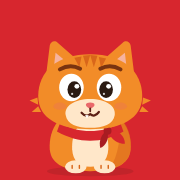
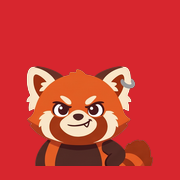
Tama ahora es una panda roja animada
- Seis poses ilustradas (normal, contenta, hablando, escuchando, pensando, ups) con fondo transparente
- Animación: respiración, rebote al hablar, salto al acertar, inclinación al escuchar y gestos aleatorios
- Transición suave entre poses e icono de la app con la panda

Claude-Session: https://claude.ai/code/session_018rENqMkCvc8G4z7XLaYB4Q

diff --git a/index.html b/index.html
@@ -4,7 +4,7 @@
 <meta charset="utf-8">
 <meta name="viewport" content="width=device-width,initial-scale=1,viewport-fit=cover,interactive-widget=resizes-content">
 <title>Hanashi</title>
-<meta name="description" content="Aprende japonés hablando con Tama, tu compañero gato.">
+<meta name="description" content="Aprende japonés hablando con Tama, tu compañera panda roja.">
 <meta name="theme-color" content="#d7262e">
 <link rel="manifest" href="manifest.webmanifest">
 <link rel="icon" href="icon-192.png">
@@ -93,39 +93,44 @@ nav.tabs button[aria-selected="true"] .k{color:var(--ai)}
 .focus .w{font-family:var(--f-jp);font-size:13px;background:var(--warn-soft);color:var(--warn);border-radius:6px;padding:1px 7px}
 .focus .w.new{background:var(--ai-soft);color:var(--ai)}
 
-/* mascot svg */
-.cat{width:100%;height:100%;overflow:visible}
-.cat *{transform-box:view-box}
-.cat .eyes-happy,.cat .mouth-talk,.cat .sweat,.cat .dots,.cat .spark{display:none}
-.cat .blink{transform-origin:100px 76px;animation:blink 5s infinite}
-.cat .tail{transform-origin:142px 176px;animation:sway 3.4s ease-in-out infinite}
-.cat .head{transform-origin:100px 130px;transition:transform .35s cubic-bezier(.3,1.5,.5,1)}
-.cat .ear-l{transform-origin:62px 40px;transition:transform .3s}
-.cat .ear-r{transform-origin:138px 40px;transition:transform .3s}
-.cat .brow-l{transform-origin:72px 52px;transition:transform .3s}
-.cat .brow-r{transform-origin:128px 52px;transition:transform .3s}
-.cat .brows{transition:transform .3s}
-.cat .pupils{transition:transform .3s}
-.cat .band-tails{transform-origin:166px 52px;animation:flutter 1.6s ease-in-out infinite}
-.cat .bodyall{transform-origin:100px 190px;animation:breath 4s ease-in-out infinite}
-@keyframes breath{0%,100%{transform:scale(1,1)}50%{transform:scale(1.012,.988)}}
-@keyframes blink{0%,93%,100%{transform:scaleY(1)}96%{transform:scaleY(.08)}}
-@keyframes sway{0%,100%{transform:rotate(0)}50%{transform:rotate(-9deg)}}
-@keyframes flutter{0%,100%{transform:rotate(0)}50%{transform:rotate(8deg)}}
-@keyframes hop{0%,100%{transform:translateY(0) scale(1,1)}15%{transform:translateY(0) scale(1.06,.94)}45%{transform:translateY(-16px) scale(.97,1.03)}75%{transform:translateY(0) scale(1.04,.96)}}
-@keyframes talk{from{transform:scaleY(.35)}to{transform:scaleY(1)}}
-@keyframes twitch{0%,80%,100%{transform:rotate(0)}88%{transform:rotate(-12deg)}}
-@keyframes twinkle{0%,100%{opacity:0;transform:scale(.4)}50%{opacity:1;transform:scale(1)}}
-@keyframes dot{0%,100%{opacity:.25}50%{opacity:1}}
-@keyframes nod{0%,100%{transform:rotate(0)}30%{transform:rotate(-3deg) translateY(1px)}70%{transform:rotate(3deg)}}
-.cat.talk .mouth-idle{display:none}.cat.talk .mouth-talk{display:block;transform-origin:100px 108px;animation:talk .16s ease-in-out infinite alternate}
-.cat.talk .head{animation:nod 1.4s ease-in-out infinite}
-.cat.talk .brows{transform:translateY(-2px)}
-.cat.happy .blink{display:none}.cat.happy .eyes-happy{display:block}.cat.happy .bodyall{animation:hop .55s ease 2}.cat.happy .spark{display:block;transform-origin:100px 60px;animation:twinkle 1.1s ease-in-out 2}.cat.happy .brows{transform:translateY(-5px)}
-.cat.oops .sweat{display:block}.cat.oops .head{transform:rotate(5deg)}.cat.oops .brow-r{transform:translateY(-6px) rotate(-8deg)}.cat.oops .brow-l{transform:translateY(2px)}
-.cat.sad .ear-l{transform:rotate(-24deg)}.cat.sad .ear-r{transform:rotate(24deg)}.cat.sad .head{transform:translateY(3px)}.cat.sad .pupils{transform:translateY(3px)}.cat.sad .brow-l{transform:rotate(-14deg) translateY(2px)}.cat.sad .brow-r{transform:rotate(14deg) translateY(2px)}
-.cat.listen .head{transform:rotate(-8deg)}.cat.listen .ear-r{animation:twitch 1.4s infinite}.cat.listen .brows{transform:translateY(-3px)}
-.cat.think .dots{display:block}.cat.think .dots circle{animation:dot 1s infinite}.cat.think .dots circle:nth-child(2){animation-delay:.2s}.cat.think .dots circle:nth-child(3){animation-delay:.4s}.cat.think .pupils{transform:translate(4px,-4px)}.cat.think .brow-r{transform:translateY(-5px)}
+/* mascot (red panda) */
+.cat{width:100%;height:100%;position:relative}
+.cat .pop,.cat .rig{position:absolute;inset:0;transform-origin:50% 96%}
+.cat img{position:absolute;inset:0;width:100%;height:100%;object-fit:contain;object-position:50% 100%;opacity:0;transition:opacity .16s ease;user-select:none;-webkit-user-drag:none;pointer-events:none}
+.cat .p-neutral{opacity:1}
+.cat.listen .p-listen{opacity:1}.cat.listen .p-neutral{opacity:0}
+.cat.think .p-think{opacity:1}.cat.think :is(.p-neutral,.p-listen){opacity:0}
+.cat.talk .p-talk{opacity:1}.cat.talk :is(.p-neutral,.p-listen,.p-think){opacity:0}
+.cat:is(.oops,.sad) .p-oops{opacity:1}.cat:is(.oops,.sad) :is(.p-neutral,.p-listen,.p-think,.p-talk){opacity:0}
+.cat.happy .p-happy{opacity:1}.cat.happy :is(.p-neutral,.p-listen,.p-think,.p-talk,.p-oops){opacity:0}
+.cat.peek .p-listen{opacity:1}.cat.peek .p-neutral{opacity:0}
+/* idle: breathing with a soft, uneven rhythm */
+.cat .rig{animation:breathe 3.7s cubic-bezier(.45,0,.55,1) infinite}
+@keyframes breathe{0%,100%{transform:scale(1,1)}38%{transform:scale(1.012,.986) translateY(.5%)}62%{transform:scale(.996,1.008)}}
+/* talking: lively bobbing, irregular so it does not look mechanical */
+.cat.talk .rig{animation:chatter 1.35s ease-in-out infinite}
+@keyframes chatter{0%,100%{transform:translateY(0) rotate(0)}14%{transform:translateY(-2.5%) rotate(-1.2deg)}30%{transform:translateY(0) rotate(0) scale(1.01,.99)}47%{transform:translateY(-1.6%) rotate(1deg)}63%{transform:translateY(-3%) rotate(-.4deg)}80%{transform:translateY(-.6%) rotate(.8deg)}}
+/* happy: squash, jump, land */
+.cat.happy .rig{animation:hop .62s cubic-bezier(.3,.7,.4,1) 2}
+@keyframes hop{0%{transform:scale(1,1)}14%{transform:scale(1.08,.9)}42%{transform:translateY(-13%) scale(.95,1.06) rotate(-2deg)}70%{transform:translateY(0) scale(1.06,.93)}86%{transform:scale(.98,1.02)}100%{transform:scale(1,1)}}
+/* listening: leans in and holds, with a tiny sway */
+.cat.listen .rig{animation:lean 2.6s ease-in-out infinite}
+@keyframes lean{0%,100%{transform:rotate(-2.5deg) translateX(-1%)}50%{transform:rotate(-4deg) translateX(-1.6%) translateY(-.6%)}}
+/* thinking: slow side-to-side ponder */
+.cat.think .rig{animation:ponder 2.2s ease-in-out infinite}
+@keyframes ponder{0%,100%{transform:rotate(1.5deg)}50%{transform:rotate(-1.5deg) translateY(-.8%)}}
+/* oops: small flinch, then a sheepish droop */
+.cat:is(.oops,.sad) .rig{animation:flinch .5s ease-out 1 both}
+@keyframes flinch{0%{transform:translateX(0)}20%{transform:translateX(-2.5%) rotate(-2deg)}45%{transform:translateX(2%) rotate(1.5deg)}70%{transform:translateX(-1%)}100%{transform:translateY(1.5%) scale(1.01,.98)}}
+/* pose change "pop" + random idle fidgets */
+.cat .pop.go{animation:posepop .32s cubic-bezier(.3,1.6,.5,1)}
+@keyframes posepop{0%{transform:scale(.95,1.04)}55%{transform:scale(1.03,.97)}100%{transform:scale(1)}}
+.cat .pop.f-hop{animation:fhop .55s cubic-bezier(.3,.7,.4,1)}
+@keyframes fhop{0%,100%{transform:none}25%{transform:scale(1.05,.94)}55%{transform:translateY(-6%) scale(.98,1.03)}80%{transform:scale(1.03,.97)}}
+.cat .pop.f-tilt{animation:ftilt 1.6s ease-in-out}
+@keyframes ftilt{0%,100%{transform:none}30%,70%{transform:rotate(4deg)}}
+.cat .pop.f-wiggle{animation:fwig .7s ease-in-out}
+@keyframes fwig{0%,100%{transform:none}20%{transform:rotate(-3deg)}40%{transform:rotate(3deg)}60%{transform:rotate(-2deg)}80%{transform:rotate(1deg)}}
 
 /* messages */
 .msgs{display:flex;flex-direction:column;gap:14px}
@@ -461,81 +466,9 @@ function furi(t){
 const plain=t=>String(t??"").replace(/\[[\u3040-\u30ffー・ ]+\]/g,"");
 
 /* ============ Tama, the mascot (original design) ============ */
-const TAMA_COL={fur:"#F28C28",furDark:"#D9661A",cream:"#FFE7C9",ear:"#F6B39E",ink:"#2B1A12",brow:"#7A3410",nose:"#E9686A",mouth:"#5C1F14",tongue:"#F0807A",red:"#D7262E",redDark:"#A81C22"};
-function catSVG(v){
-  v=v||settings.tamaStyle||"tama";const C=TAMA_COL;
-  const eyesOpen = v==="zen"
-    ? `<g class="blink">
-        <ellipse cx="74" cy="76" rx="17" ry="16" fill="#fff"/><ellipse cx="126" cy="76" rx="17" ry="16" fill="#fff"/>
-        <g class="pupils"><ellipse cx="77" cy="80" rx="8.5" ry="9.5" fill="${C.ink}"/><ellipse cx="123" cy="80" rx="8.5" ry="9.5" fill="${C.ink}"/>
-        <circle cx="80" cy="78" r="2.6" fill="#fff"/><circle cx="126" cy="78" r="2.6" fill="#fff"/></g>
-        <path d="M55 74c4-12 34-12 38 0v-14H55z" fill="${C.fur}"/><path d="M107 74c4-12 34-12 38 0v-14h-38z" fill="${C.fur}"/>
-        <path d="M56 73c6-8 30-8 36 0M108 73c6-8 30-8 36 0" fill="none" stroke="${C.furDark}" stroke-width="3" stroke-linecap="round"/>
-      </g>`
-    : `<g class="blink">
-        <ellipse cx="74" cy="74" rx="17" ry="19" fill="#fff"/><ellipse cx="126" cy="74" rx="17" ry="19" fill="#fff"/>
-        <g class="pupils"><ellipse cx="78" cy="77" rx="9.5" ry="11.5" fill="${C.ink}"/><ellipse cx="122" cy="77" rx="9.5" ry="11.5" fill="${C.ink}"/>
-        <circle cx="81.5" cy="72.5" r="3.4" fill="#fff"/><circle cx="125.5" cy="72.5" r="3.4" fill="#fff"/><circle cx="75" cy="83" r="1.5" fill="#fff" opacity=".8"/><circle cx="119" cy="83" r="1.5" fill="#fff" opacity=".8"/></g>
-      </g>`;
-  const brows = v==="ronin"
-    ? `<g class="brows"><path class="brow-l" d="M57 52l28 8" stroke="${C.brow}" stroke-width="6" stroke-linecap="round"/><path class="brow-r" d="M143 52l-28 8" stroke="${C.brow}" stroke-width="6" stroke-linecap="round"/></g>`
-    : v==="zen"
-    ? `<g class="brows"><path class="brow-l" d="M60 54q13-5 26 0" fill="none" stroke="${C.brow}" stroke-width="4.5" stroke-linecap="round"/><path class="brow-r" d="M114 54q13-5 26 0" fill="none" stroke="${C.brow}" stroke-width="4.5" stroke-linecap="round"/></g>`
-    : `<g class="brows"><path class="brow-l" d="M58 49q14-8 28-1" fill="none" stroke="${C.brow}" stroke-width="5.5" stroke-linecap="round"/><path class="brow-r" d="M114 48q14-7 28 1" fill="none" stroke="${C.brow}" stroke-width="5.5" stroke-linecap="round"/></g>`;
-  const mouthIdle = v==="zen"
-    ? `<path class="mouth-idle" d="M91 111q9 6 18 0" fill="none" stroke="${C.mouth}" stroke-width="3" stroke-linecap="round"/>`
-    : v==="ronin"
-    ? `<g class="mouth-idle"><path d="M89 110q6 6 11 1q5 5 11-1" fill="none" stroke="${C.mouth}" stroke-width="3" stroke-linecap="round"/><path d="M105 112l3 5 2-5z" fill="#fff"/></g>`
-    : `<g class="mouth-idle"><path d="M88 109q6 7 12 2q6 5 12-3" fill="none" stroke="${C.mouth}" stroke-width="3" stroke-linecap="round"/><path d="M93 112l2.5 5 2.5-4.5z" fill="#fff"/></g>`;
-  const accessory = v==="ronin"
-    ? `<g class="acc"><path d="M31 47c22-13 116-13 138 0l-2 11c-24-11-110-11-134 0z" fill="${C.red}"/>
-        <circle cx="100" cy="43" r="6.5" fill="#fff"/><circle cx="100" cy="43" r="3.6" fill="${C.red}"/>
-        <g class="band-tails"><path d="M165 50c13 1 23 9 28 19-10-1-19-7-25-13z" fill="${C.red}"/><path d="M165 53c9 7 14 18 13 29-7-7-11-17-13-25z" fill="${C.redDark}"/></g></g>`
-    : v==="zen"
-    ? ``
-    : ``;
-  const neck = v==="zen"
-    ? `<path d="M131 124L97 180" stroke="${C.redDark}" stroke-width="12" stroke-linecap="round"/><path d="M69 124l35 58" stroke="${C.red}" stroke-width="12" stroke-linecap="round"/>
-       <path d="M69 124l35 58" stroke="#fff" stroke-width="2" stroke-dasharray="1 7" stroke-linecap="round" opacity=".6"/>`
-    : v==="ronin"
-    ? `<path d="M62 126c24 12 52 12 76 0l3 9c-26 14-56 14-82 0z" fill="${C.redDark}"/>`
-    : `<path d="M58 124c26 14 58 14 84 0l4 11c-30 17-62 17-92 0z" fill="${C.red}"/>
-       <path d="M128 132c12 2 20 10 20 20-10 0-18-6-22-14z" fill="${C.red}"/><path d="M124 136c2 10-2 18-10 22-2-8 0-16 6-22z" fill="${C.redDark}"/>
-       <circle cx="124" cy="134" r="5.5" fill="${C.redDark}"/>`;
-  return `<svg class="cat v-${v}" viewBox="0 0 200 200" aria-hidden="true">
- <g class="bodyall">
-  <ellipse cx="100" cy="190" rx="60" ry="7" fill="#2b1a12" opacity=".13"/>
-  <g class="tail"><path d="M140 176c36 6 50-20 40-48" fill="none" stroke="${C.fur}" stroke-width="16" stroke-linecap="round"/>
-    <path d="M140 176c36 6 50-20 40-48" fill="none" stroke="${C.furDark}" stroke-width="16" stroke-dasharray="7 11" stroke-dashoffset="-6"/></g>
-  <path d="M100 102c42 0 58 30 56 58-2 22-24 30-56 30s-54-8-56-30c-2-28 14-58 56-58z" fill="${C.fur}"/>
-  <path d="M138 112c14 12 20 30 18 48-2 16-14 24-30 28 14-20 18-50 12-76z" fill="${C.furDark}" opacity=".55"/>
-  <path d="M100 120c18 0 26 20 25 40-1 16-10 24-25 24s-24-8-25-24c-1-20 7-40 25-40z" fill="${C.cream}"/>
-  <ellipse cx="80" cy="184" rx="15" ry="9" fill="${C.cream}"/><ellipse cx="120" cy="184" rx="15" ry="9" fill="${C.cream}"/>
-  <path d="M75 186v-4M85 186v-4M115 186v-4M125 186v-4" stroke="${C.furDark}" stroke-width="2" stroke-linecap="round"/>
-  ${neck}
-  <g class="head">
-   <g class="ear-l"><path d="M38 64L44 16c1-6 7-8 11-4l32 28z" fill="${C.fur}"/><path d="M49 52l3-26 22 18z" fill="${C.ear}"/></g>
-   <g class="ear-r"><path d="M162 64l-6-48c-1-6-7-8-11-4l-32 28z" fill="${C.fur}"/><path d="M151 52l-3-26-22 18z" fill="${C.ear}"/></g>
-   <path d="M100 28c46 0 72 24 72 58 0 32-30 46-72 46S28 118 28 86c0-34 26-58 72-58z" fill="${C.fur}"/>
-   <path d="M27 88l-11 4 12 6zM28 100l-9 8 13 0zM173 88l11 4-12 6zM172 100l9 8-13 0z" fill="${C.fur}"/>
-   <path d="M90 30l5 16 5-17zM100 29l5 17 5-16zM78 33l7 13 3-15zM112 32l3 15 7-13z" fill="${C.furDark}"/>
-   <path d="M100 90c22 0 36 10 34 22-2 13-16 18-34 18s-32-5-34-18c-2-12 12-22 34-22z" fill="${C.cream}"/>
-   ${accessory}
-   ${eyesOpen}
-   <g class="eyes-happy" fill="none" stroke="${C.ink}" stroke-width="5" stroke-linecap="round"><path d="M62 80q12-14 24 0"/><path d="M114 80q12-14 24 0"/></g>
-   ${brows}
-   <path d="M94 98c0-2 3-3 6-3s6 1 6 3-3 5-6 5-6-3-6-5z" fill="${C.nose}"/>
-   <path d="M100 103v4" stroke="${C.mouth}" stroke-width="2.5" stroke-linecap="round"/>
-   ${mouthIdle}
-   <g class="mouth-talk"><path d="M89 108q11 3 22 0q-2 13-11 13t-11-13z" fill="${C.mouth}"/><path d="M93 116q7-4 14 0q-3 5-7 5t-7-5z" fill="${C.tongue}"/></g>
-   <ellipse cx="58" cy="100" rx="9" ry="5" fill="${C.nose}" opacity=".28"/><ellipse cx="142" cy="100" rx="9" ry="5" fill="${C.nose}" opacity=".28"/>
-   <path class="sweat" d="M162 44c5 7 7 12 3 15s-10 1-10-5 3-7 7-10z" fill="#8ECDF2"/>
-  </g>
- </g>
- <g class="dots" fill="#9a8f80"><circle cx="160" cy="30" r="4"/><circle cx="172" cy="18" r="5"/><circle cx="187" cy="6" r="6"/></g>
- <g class="spark" fill="#F2B33D"><path d="M22 40l3 9 9 3-9 3-3 9-3-9-9-3 9-3z"/><path d="M178 52l2 6 6 2-6 2-2 6-2-6-6-2 6-2z"/><path d="M164 12l1.6 4.4 4.4 1.6-4.4 1.6-1.6 4.4-1.6-4.4-4.4-1.6 4.4-1.6z"/></g>
-</svg>`;
-}
+// Tama, the red panda: six illustrated poses stacked and cross-faded; motion comes from CSS + small random fidgets.
+const POSES=["neutral","happy","talk","listen","think","oops"];
+function catSVG(){return `<div class="cat" aria-hidden="true"><div class="pop"><div class="rig">${POSES.map(p=>`<img class="p-${p}" src="tama-${p}.webp" alt="" draggable="false" decoding="async">`).join("")}</div></div></div>`}
 let moodTimer=null;
 function tama(mood,text,hold){
   const c=$("#tamaCat .cat");if(!c)return;
@@ -1030,7 +963,7 @@ async function send(text,isStart,spanish){
   const known=words.filter(w=>!w.basic).slice(0,300).map(w=>w.jp+(w.kana&&w.kana!==w.jp?"("+w.kana+")":"")).join("、");
   const scene=SCENES.find(s=>s[0]===chat.scene)||SCENES[0];
   const hist=chat.msgs.filter(m=>m.role!=="sys").slice(-16).map(m=>m.role==="me"?"ALUMNO: "+m.text:"TAMA: "+sayText(m)).join("\n");
-  const prompt=`Eres Tama, una gata japonesa con mucha personalidad: simpática, ingeniosa y un poco pícara, que habla como una amiga nativa y ayuda a un alumno a practicar conversación. ${LEARNER}\n${FURI_RULE}
+  const prompt=`Eres Tama, una panda roja japonesa con mucha personalidad: simpática, ingeniosa y un poco pícara, que habla como una amiga nativa y ayuda a un alumno a practicar conversación. ${LEARNER}\n${FURI_RULE}
 Situación: ${scene[2]}.
 Vocabulario que el alumno está aprendiendo: ${known||"(todavía ninguno)"}.
 Gramática básica que conoce: partículas は が を に で へ と の も か ね よ, です/じゃないです, verbos en 〜ます/〜ません/〜ました/〜ましょう/〜たいです, palabras interrogativas.
@@ -1272,7 +1205,7 @@ function closeSheet(){const s=$("#scrim");if(s)s.remove()}
 function settingsSheet(){
   if(voiceOn)pauseVoice(true);pickVoice();
   const sw=(k,l,p)=>`<div class="set"><div><label for="s_${k}">${l}</label><p>${p}</p></div><button class="switch" id="s_${k}" role="switch" aria-checked="${!!settings[k]}" data-set="${k}"></button></div>`;
-  openSheet(`<div class="grab"></div><h3 class="h2">Ajustes</h3><div class="stack" style="gap:6px"><b style="font-size:14px">Elige a tu Tama</b>${tamaPickerHTML()}</div><div>
+  openSheet(`<div class="grab"></div><h3 class="h2">Ajustes</h3><div>
    ${sw("kataHelp","Ayuda con katakana","Muestra también la lectura encima del katakana.")}
    ${sw("romaji","Romaji","Transcripción en letras latinas.")}
    ${sw("kanaInput","Romaji → hiragana al escribir","Escribe «konnichiwa» y aparece こんにちは. En MAYÚSCULAS sale katakana.")}
@@ -1391,7 +1324,6 @@ document.addEventListener("click",e=>{
   if(el.id==="btnCancelReply")return cancelReply();
   if(el.id==="btnStopVoice"){stopSpeaking();if(voiceOn)pauseVoice(true);return}
   if(el.id==="btnQuota")return quotaSheet();
-  if(d.tama)return setTamaStyle(d.tama);
   if(el.id==="btnResumeFromHint"){closeSheet();return resumeVoice()}
   if(d.use!==undefined){const o=(window._hintOpts||[])[+d.use];if(o){closeSheet();try{wanakana.unbind(inp)}catch(e2){}inp.value=plain(o.jp);autoGrow();applyKana();inp.focus()}return}
   if(el.id==="btnKana"){settings.kanaInput=!settings.kanaInput;saveSettings();applyKana();sfx("flip");inp.focus();return}
@@ -1529,13 +1461,28 @@ function confetti(){
 }
 
 /* ============ Tama picker ============ */
-const TAMA_STYLES=[["tama","Tama","Pícara y con bufanda"],["ronin","Tama rōnin","Decidida, con hachimaki"],["zen","Tama zen","Tranquila, con haori"]];
-function tamaPickerHTML(){return `<div class="tpick">${TAMA_STYLES.map(([k,n,d])=>`<button class="tchoice" data-tama="${k}" aria-pressed="${settings.tamaStyle===k}"><span class="tc-img">${catSVG(k)}</span><b>${n}</b><small>${d}</small></button>`).join("")}</div>`}
-function setTamaStyle(k){settings.tamaStyle=k;saveSettings();$("#tamaCat").innerHTML=catSVG();document.querySelectorAll(".tchoice").forEach(b=>b.setAttribute("aria-pressed",b.dataset.tama===k));sfx("add");tama("happy",pick(["¡Así me gusta!","¿Qué tal estoy?","¡Lista para hablar!"]),1800)}
+
+
+/* ============ Tama motion helpers ============ */
+function posePop(c){const p=c.querySelector(".pop");if(!p)return;p.className="pop";void p.offsetWidth;p.classList.add("go")}
+// observe class changes made anywhere (setVState etc.) to pop on every pose switch
+const poseObs=new MutationObserver(ms=>ms.forEach(m=>{if(m.attributeName==="class"&&m.oldValue!==m.target.className)posePop(m.target)}));
+function watchCat(){const c=$("#tamaCat .cat");if(c)poseObs.observe(c,{attributes:true,attributeOldValue:true,attributeFilter:["class"]})}
+function fidget(){
+  const c=$("#tamaCat .cat");
+  if(c&&c.className==="cat"&&!document.hidden&&!matchMedia("(prefers-reduced-motion: reduce)").matches){
+    const r=Math.random(),p=c.querySelector(".pop");
+    if(r<.35){p.className="pop";void p.offsetWidth;p.classList.add("f-hop")}
+    else if(r<.65){p.className="pop";void p.offsetWidth;p.classList.add("f-tilt")}
+    else if(r<.85){c.classList.add("peek");setTimeout(()=>c.classList.remove("peek"),1500)}
+    else{p.className="pop";void p.offsetWidth;p.classList.add("f-wiggle")}
+  }
+  setTimeout(fidget,6000+Math.random()*9000);
+}
 
 /* ============ boot ============ */
 loadAll();
-$("#tamaCat").innerHTML=catSVG();
+$("#tamaCat").innerHTML=catSVG();watchCat();setTimeout(fidget,5000);
 applyKana();renderAll();renderQuota();renderAssist();tama("idle",pick(IDLE_LINES));
 if(!settings.key)showOnboarding();
 if("serviceWorker" in navigator&&location.protocol==="https:")navigator.serviceWorker.register("sw.js").catch(()=>{});

diff --git a/sw.js b/sw.js
@@ -1,6 +1,6 @@
 // Hanashi service worker: keeps the app shell available offline.
-const CACHE = "hanashi-v4";
-const SHELL = ["./", "./index.html", "./manifest.webmanifest", "./icon-192.png", "./icon-512.png", "./icon-maskable-512.png", "./apple-touch-icon.png", "./wanakana.min.js"];
+const CACHE = "hanashi-v5";
+const SHELL = ["./", "./index.html", "./manifest.webmanifest", "./icon-192.png", "./icon-512.png", "./icon-maskable-512.png", "./apple-touch-icon.png", "./wanakana.min.js", "./tama-neutral.webp", "./tama-happy.webp", "./tama-talk.webp", "./tama-listen.webp", "./tama-think.webp", "./tama-oops.webp"];
 
 self.addEventListener("install", e => {
   e.waitUntil(caches.open(CACHE).then(c => c.addAll(SHELL)).then(() => self.skipWaiting()));
